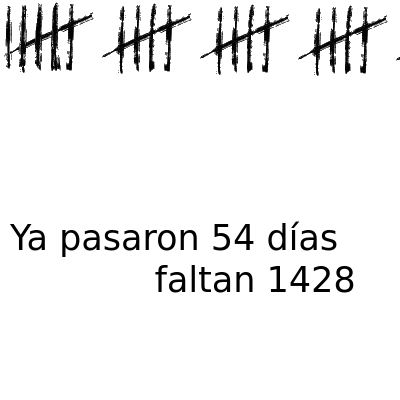
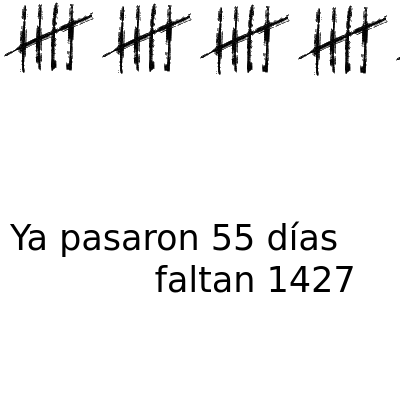
deploy: 28882f26f23b9f53dac6c4991168e610486d0e44

Changed region(s): [[0.0, 0.0, 0.15, 0.18], [0.84, 0.66, 0.9, 0.75], [0.57, 0.54, 0.63, 0.63]]

diff --git a/index.html b/index.html
@@ -3,19 +3,19 @@
   <head>
     <meta charset='utf-8'>
     <meta http-equiv='X-UA-Compatible' content='IE=edge'>
-    <title>Ya pasaron 54 días y faltan 1428</title>
-    <meta name="description" content="Ya pasaron 54 días y faltan 1428">
-    <meta itemprop="name" content="Ya pasaron 54 días y faltan 1428">
-    <meta itemprop="description" content="Ya pasaron 54 días y faltan 1428">
+    <title>Ya pasaron 55 días y faltan 1427</title>
+    <meta name="description" content="Ya pasaron 55 días y faltan 1427">
+    <meta itemprop="name" content="Ya pasaron 55 días y faltan 1427">
+    <meta itemprop="description" content="Ya pasaron 55 días y faltan 1427">
     <meta name="twitter:card" content="summary">
-    <meta name="twitter:title" content="Ya pasaron 54 días y faltan 1428">
-    <meta name="twitter:description" content="Ya pasaron 54 días y faltan 1428">
+    <meta name="twitter:title" content="Ya pasaron 55 días y faltan 1427">
+    <meta name="twitter:description" content="Ya pasaron 55 días y faltan 1427">
     <meta name="twitter:creator" content="@FloriusWasTaken">
     <meta name="twitter:image" content="https://pasaron.meme.ar/capture.png">
-    <meta property="og:title" content="Ya pasaron 54 días y faltan 1428">
-    <meta property="og:description" content="Ya pasaron 54 días y faltan 1428">
+    <meta property="og:title" content="Ya pasaron 55 días y faltan 1427">
+    <meta property="og:description" content="Ya pasaron 55 días y faltan 1427">
     <meta property="og:url" content="https://pasaron.meme.ar">
-    <meta property="og:site_name" content="Ya pasaron 54 días y faltan 1428">
+    <meta property="og:site_name" content="Ya pasaron 55 días y faltan 1427">
     <meta property="og:type" content="website">
     <meta property="og:image" content="https://pasaron.meme.ar/capture.png">
     <meta name="theme-color" content="#dc143c">
@@ -69,18 +69,16 @@
         padding: 0;
       }
     </style>
-    <title>Ya pasaron 54 días y faltan 1428</title>
+    <title>Ya pasaron 55 días y faltan 1427</title>
   </head>
   <body>
     <div id="main">
-      <img src="img/5.png"/><img src="img/5.png"/><img src="img/5.png"/><img src="img/5.png"/><img src="img/5.png"/><img src="img/5.png"/><img src="img/5.png"/><img src="img/5.png"/><img src="img/5.png"/><img src="img/5.png"/>
-      
-        <img src="img/4.png"/>
+      <img src="img/5.png"/><img src="img/5.png"/><img src="img/5.png"/><img src="img/5.png"/><img src="img/5.png"/><img src="img/5.png"/><img src="img/5.png"/><img src="img/5.png"/><img src="img/5.png"/><img src="img/5.png"/><img src="img/5.png"/>
       
     </div>
     <footer id="footer">
       <marquee id="marquee" class="is-vertical-align">
-        Ya pasaron 54 días y faltan 1428
+        Ya pasaron 55 días y faltan 1427
       </marquee>
       <ul>
         <li>
